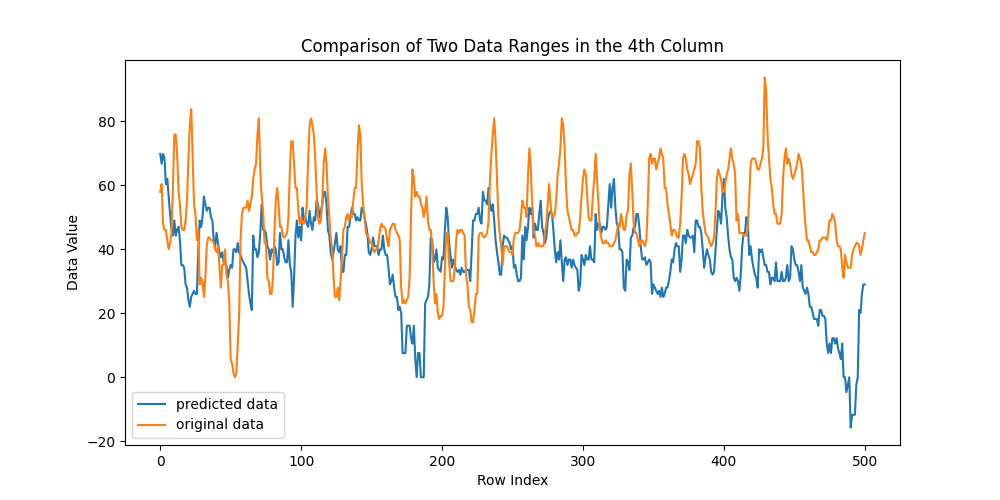
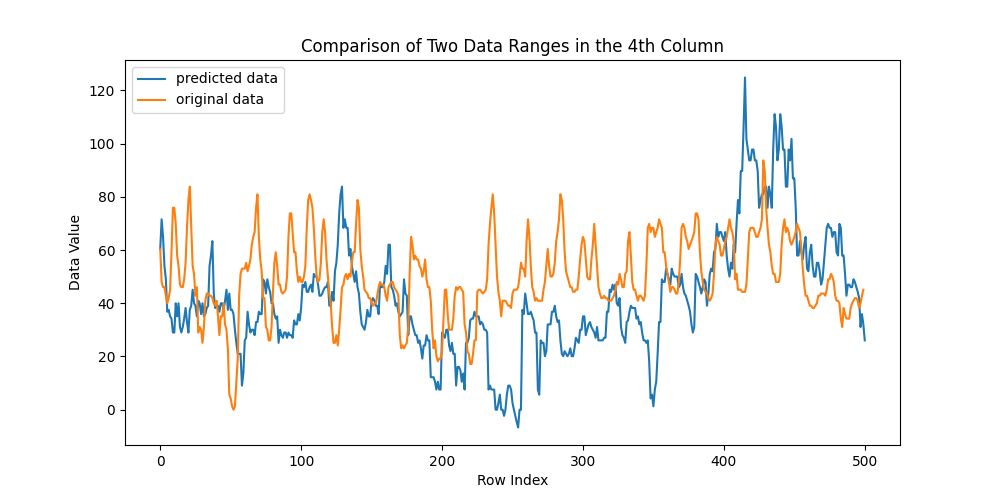
update

diff --git a/Markov_Modelling.py b/Markov_Modelling.py
@@ -45,7 +45,7 @@ print(transition_matrix)
 num_steps = 500
 
 # Initial state (choose one of the unique states)
-initial_state = 82  # For example, choose the second state
+initial_state = 76
 
 # Store the predicted states
 predicted_states = [initial_state]
@@ -70,9 +70,10 @@ plt.plot(predicted_states, label='predicted data')
 df = pd.read_csv(file_path)
 
 column_index = 3
-data_to_plot = df.iloc[500:1001, column_index]
+data_to_plot = df.iloc[501:1001, column_index]
+print(data_to_plot[0:10])
 
-plt.plot(range(0, 501), data_to_plot, label='original data')
+plt.plot(range(0, 500), data_to_plot, label='original data')
 
 # 添加标签和标题
 plt.xlabel('Row Index')
